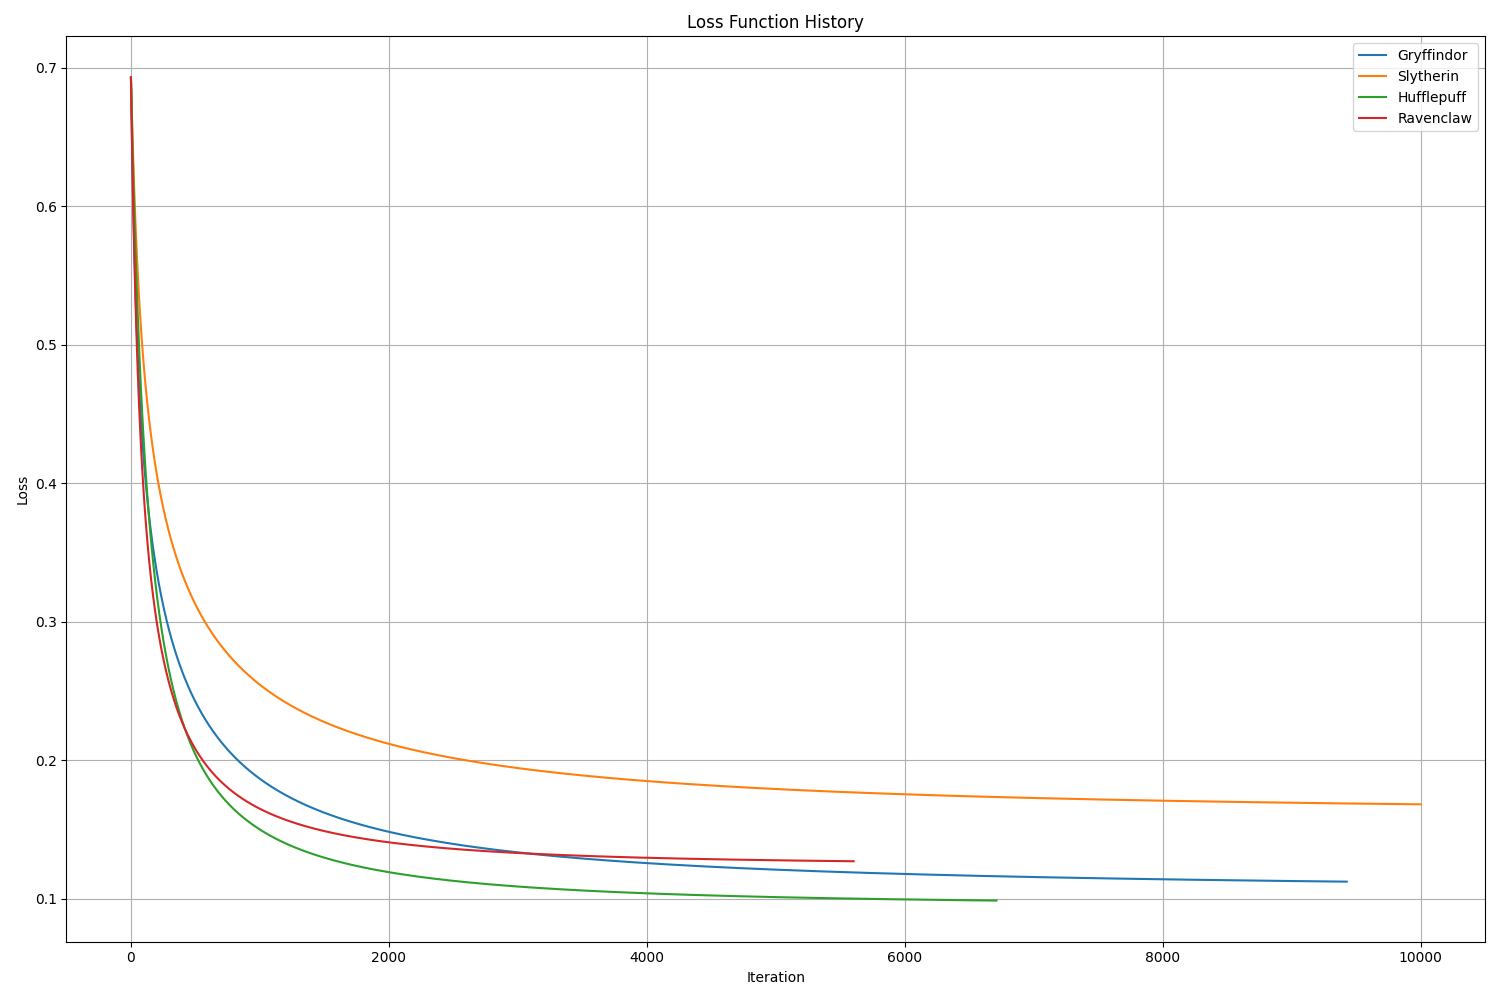
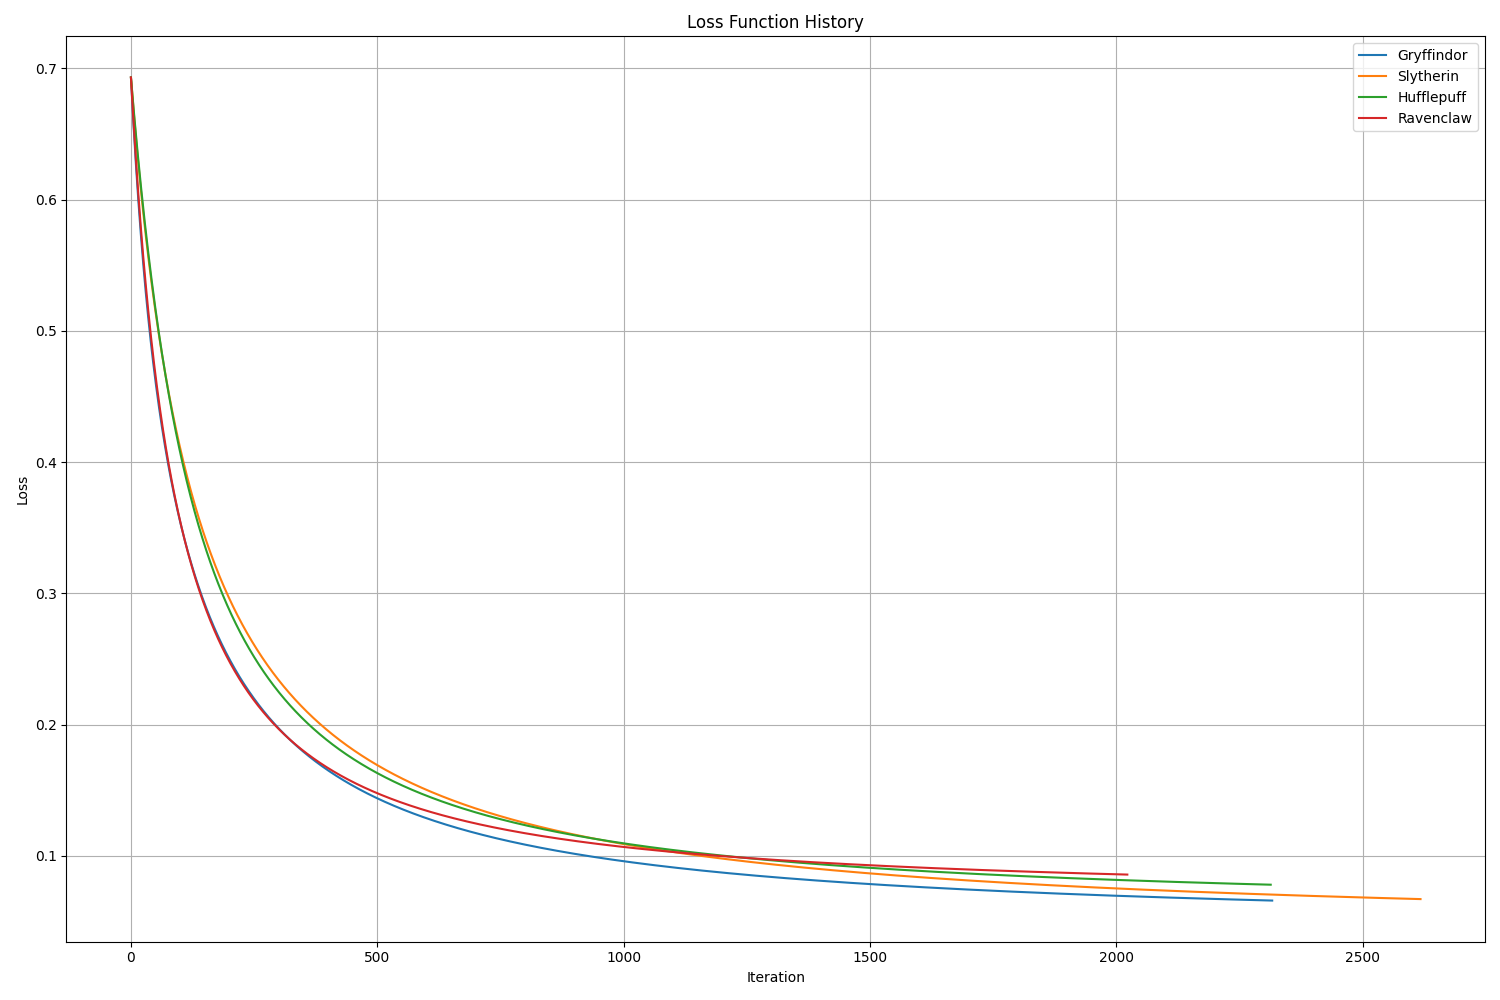
cleaning & improving files

diff --git a/src/logreg/logreg_train.py b/src/logreg/logreg_train.py
@@ -158,7 +158,7 @@ def train(filename, removed_features, skip_input):
     print('\n🔆 TRAINING')
     loss_history = []
     # Add bias term to normalized features
-    X = np.hstack((np.zeros((X_norm.shape[0], 1)), X_norm))
+    X = np.hstack((np.ones((X_norm.shape[0], 1)), X_norm))
     for i, house in enumerate(HOUSES):
         print(f"\n🟡 Training for house: {house}")
         theta, J_history = gradient_descent(X, y_trains[i].reshape(-1, 1), thetas[i], LEARNING_RATE, MAX_ITERATIONS)
@@ -179,7 +179,7 @@ def train(filename, removed_features, skip_input):
         print(f"\nAccuracy for {house}: {acc * 100:.4f}%")
 
     mean_accuracy = np.mean(accuracies) * 100
-    if mean_accuracy >= 95:
+    if mean_accuracy >= 98:
         print(f"\n✅ Mean accuracy across all houses: {mean_accuracy:.4f}%.")
     else:
         print(f"\n❌ Mean accuracy across all houses: {mean_accuracy:.4f}%")

diff --git a/src/utils/optimize.py b/src/utils/optimize.py
@@ -12,11 +12,13 @@ from logreg_train import train
 
 warnings.filterwarnings("ignore", message="divide by zero encountered in scalar divide")
 
+
 def calculate_vif(X):
     vif_data = pd.DataFrame()
     vif_data["feature"] = X.columns
     vif_data["VIF"] = [variance_inflation_factor(X.values, i) for i in range(len(X.columns))]
     return vif_data
+
 
 def correlation(filename, variables, removed_features, check_correlation=True):
     try:

diff --git a/src/utils/gradient.py b/src/utils/gradient.py
@@ -7,7 +7,7 @@ def sigmoid(z):
     return sig
 
 
-def gradient_descent(X, y, theta, lr, num_iters, threshold=1e-6):
+def gradient_descent(X, y, theta, lr, num_iters, threshold=1e-5):
     m = len(y)
     J_history = []
     for _ in tqdm(range(num_iters)):
